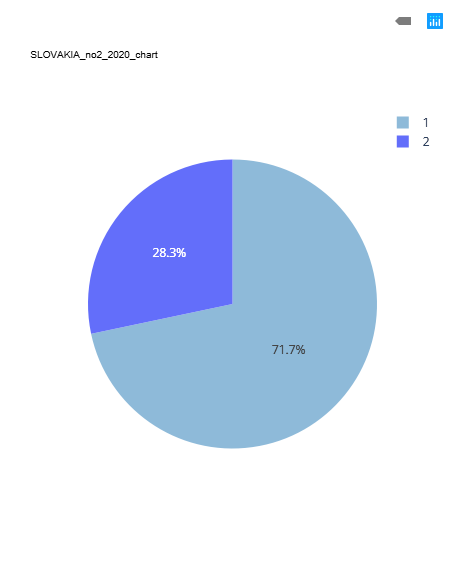
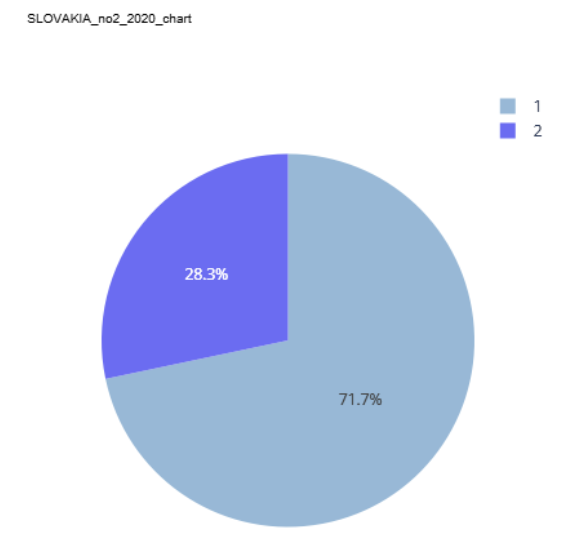
result no2 &upload webmap

diff --git a/pages/results.html b/pages/results.html
@@ -48,12 +48,24 @@
 
 					    <!-- results -->  
 										<h2>No<sub>2</sub></h2>
-										     <p>This is <b>bold</b> and this is <strong>strong</strong>. This is <i>italic</i> and this is <em>emphasized</em>.
-										        This is <sup>superscript</sup> text and this is <sub>subscript</sub> text.
-										         This is <u>underlined</u> and this is code: <code>for (;;) { ... }</code>. Finally, <a href="#">this is a link</a>.</p>
+										<p>This is <b>bold</b> and this is <strong>strong</strong>. This is <i>italic</i> and this is <em>emphasized</em>.
+											This is <sup>superscript</sup> text and this is <sub>subscript</sub> text.
+											This is <u>underlined</u> and this is code: <code>for (;;) { ... }</code>. Finally, <a href="#">this is a link</a>.
+										</p>
+										<div style="display: flex; justify-content: center; gap: 20px; flex-wrap: wrap;">
+											<img src="../images/no2trend.png" style="width: 50%; max-width: 600px;" alt="NO2 Exposure Pie Chart" />
+										</div>
+										
+										<p>This is <b>bold</b> and this is <strong>strong</strong>. This is <i>italic</i> and this is <em>emphasized</em>.
+											This is <sup>superscript</sup> text and this is <sub>subscript</sub> text.
+											This is <u>underlined</u> and this is code: <code>for (;;) { ... }</code>. Finally, <a href="#">this is a link</a>.
+										</p>
+										
+										<div style="display: flex; justify-content: center; gap: 20px; flex-wrap: wrap;">
+											<img src="../images/No2pie.png" style="width: 50%; max-width: 400px;" alt="NO2 Exposure Pie Chart" />
+										</div>
 										<hr />
-										<p>Nunc lacinia ante nunc ac lobortis. Interdum adipiscing gravida odio porttitor sem non mi integer non faucibus ornare mi ut ante amet placerat aliquet. Volutpat eu sed ante lacinia sapien lorem accumsan varius montes viverra nibh in adipiscing blandit tempus accumsan.</p>
-										<hr />
+										
 
 										<h2>Pm<sub>2.5</sub></h2>
 										<p>This is <b>bold</b> and this is <strong>strong</strong>. This is <i>italic</i> and this is <em>emphasized</em>.
